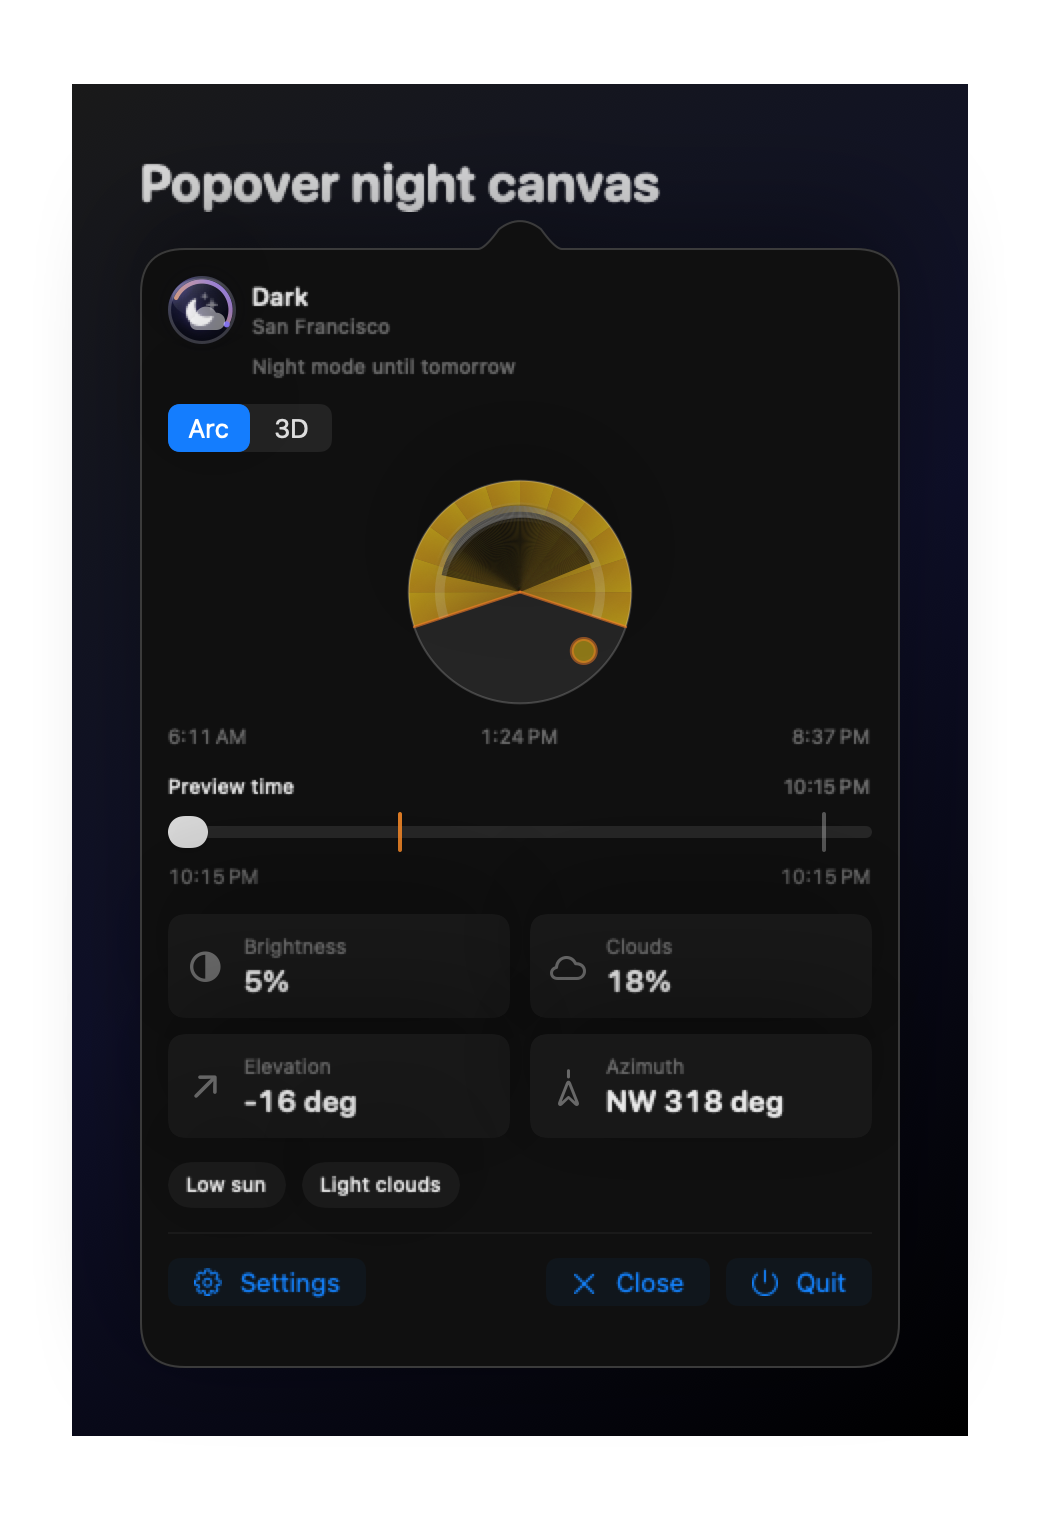
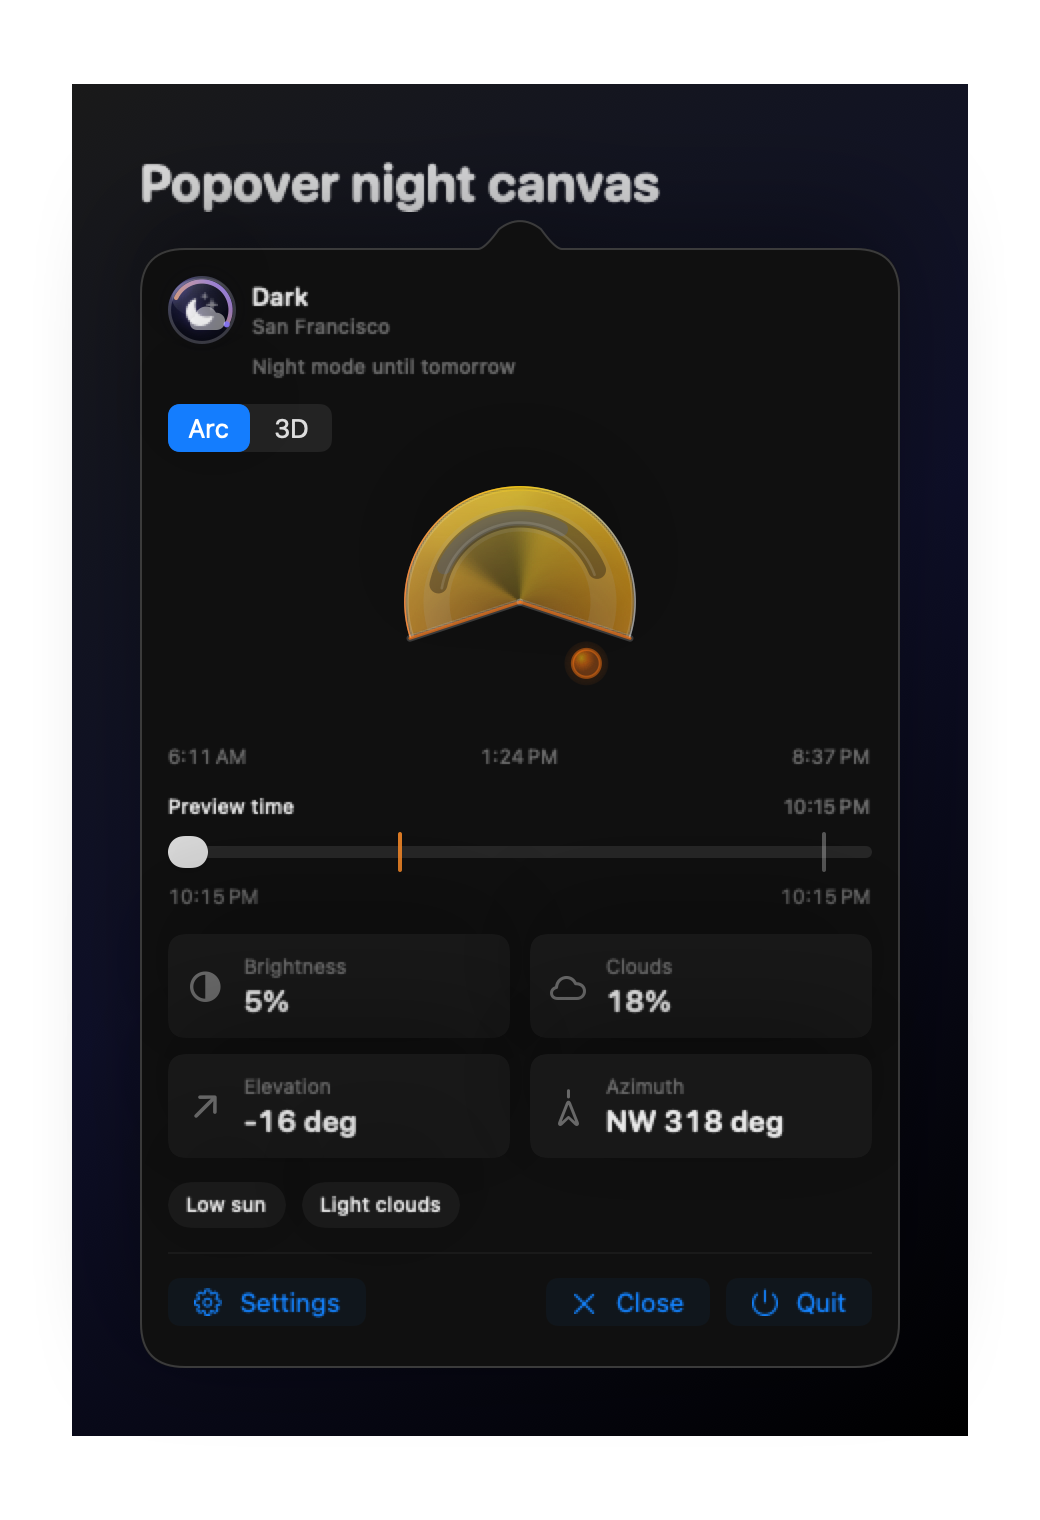
Align popover arc with widget renderer

diff --git a/Sources/SunStatus/Views/SunStatusPopoverView.swift b/Sources/SunStatus/Views/SunStatusPopoverView.swift
@@ -44,7 +44,10 @@ struct SunStatusPopoverView: View {
                 SolarArcView(
                     status: status,
                     previewProgress: arcPreviewDaylightProgress,
-                    previewDate: arcPreviewDate
+                    previewDate: arcPreviewDate,
+                    showsTimeLabels: true,
+                    arcHeight: 126,
+                    daylightLayout: .proportional
                 )
 
                 arcPreviewSlider
@@ -561,13 +564,29 @@ enum SunStatusPopoverEvidenceRenderer {
 
         do {
             let root = URL(fileURLWithPath: FileManager.default.currentDirectoryPath)
-            let outputURL = root.appendingPathComponent("screenshots/pr-evidence/popover-night-canvas.png")
+            let outputDirectory = root.appendingPathComponent("screenshots/pr-evidence")
             try FileManager.default.createDirectory(
-                at: outputURL.deletingLastPathComponent(),
+                at: outputDirectory,
                 withIntermediateDirectories: true
             )
-            try render(outputURL: outputURL)
-            print("Wrote \(outputURL.path)")
+
+            let cloudShiftURL = outputDirectory.appendingPathComponent("popover-cloud-shift-canvas.png")
+            try render(
+                outputURL: cloudShiftURL,
+                title: "Popover cloud-shift canvas",
+                status: SunStatusPopoverPreviewData.cloudShiftStatus,
+                isPinned: false
+            )
+            print("Wrote \(cloudShiftURL.path)")
+
+            let nightURL = outputDirectory.appendingPathComponent("popover-night-canvas.png")
+            try render(
+                outputURL: nightURL,
+                title: "Popover night canvas",
+                status: SunStatusPopoverPreviewData.nightStatus,
+                isPinned: true
+            )
+            print("Wrote \(nightURL.path)")
             return true
         } catch {
             fputs("Failed to render popover PR evidence: \(error)\n", stderr)
@@ -576,11 +595,11 @@ enum SunStatusPopoverEvidenceRenderer {
     }
 
     @MainActor
-    private static func render(outputURL: URL) throws {
+    private static func render(outputURL: URL, title: String, status: DaylightStatus, isPinned: Bool) throws {
         let content = SunStatusPopoverCanvasPreview(
-            title: "Popover night canvas",
-            status: SunStatusPopoverPreviewData.nightStatus,
-            isPinned: true
+            title: title,
+            status: status,
+            isPinned: isPinned
         )
         .frame(width: 520, height: 760)
         .environment(\.colorScheme, .dark)
